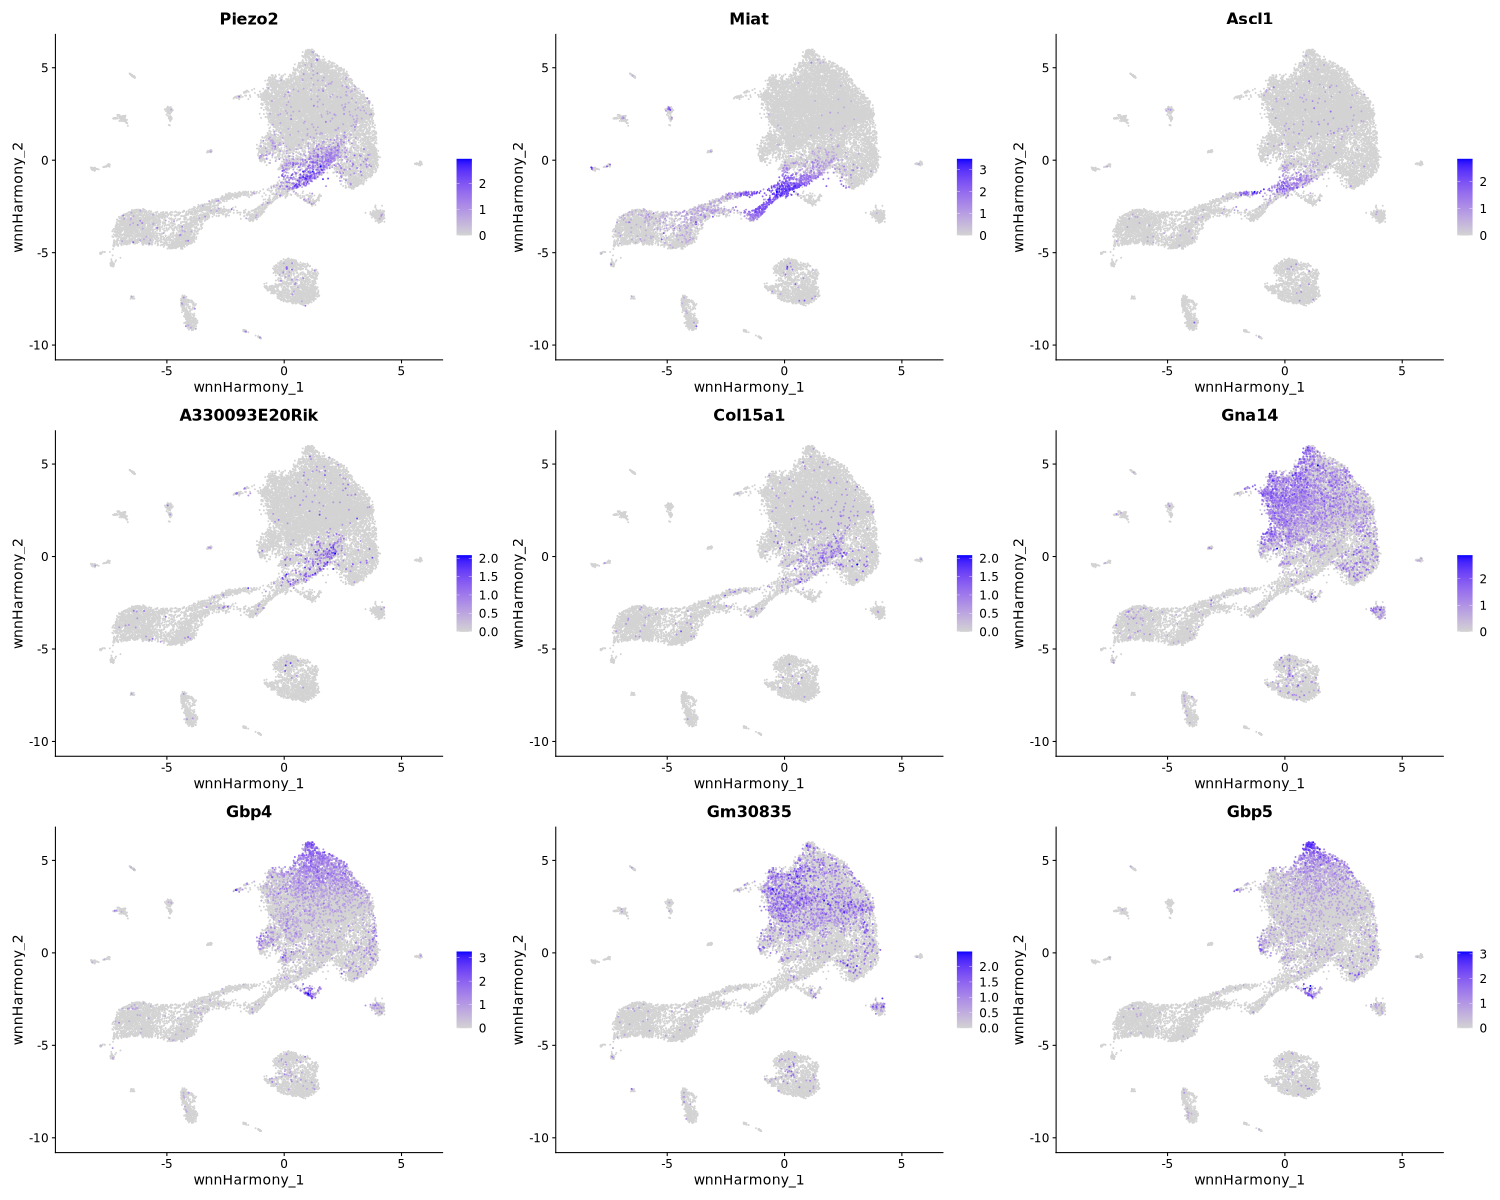
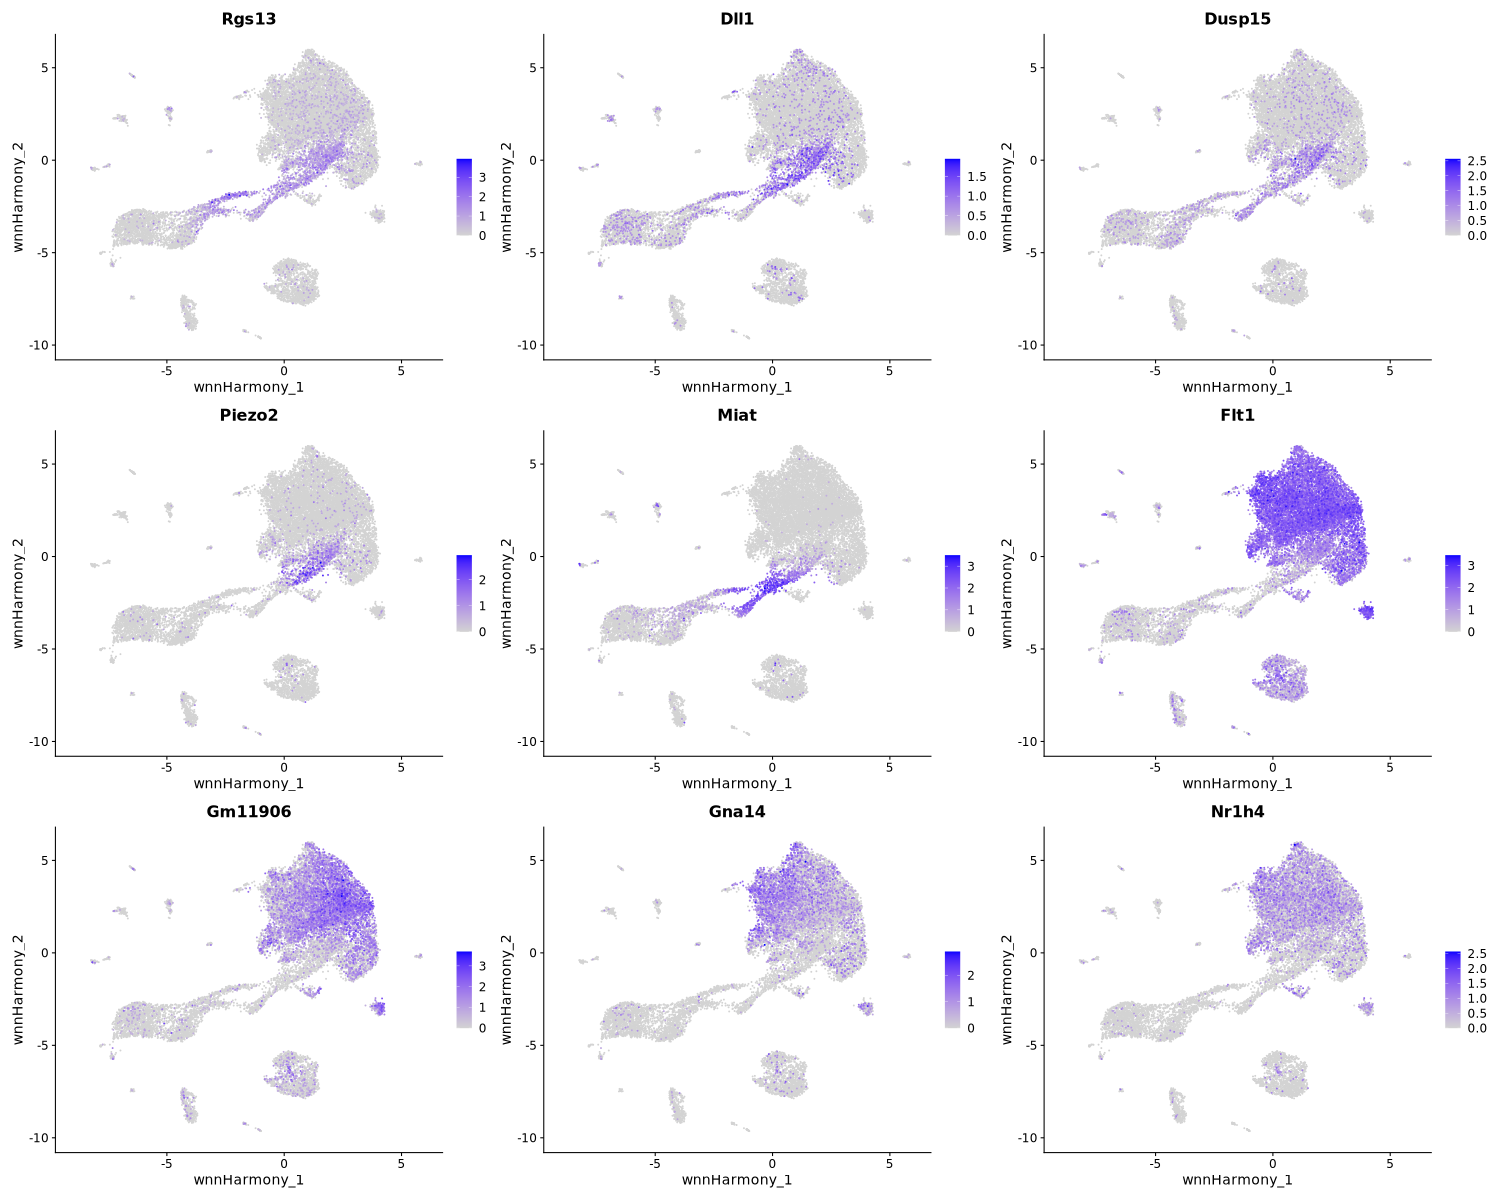
update motifEnrish -- plotTop and plots

diff --git a/README.md b/README.md
@@ -118,8 +118,8 @@ celltype_markers <- FindAllMarkers(
   myObject,
   assay = "SCT",
   only.pos = TRUE,
-  min.pct = 0.1,
-  logfc.threshold = 0.05,
+  min.pct = 0.25,      
+  logfc.threshold = 0.25,
   test.use = "wilcox",
   verbose = TRUE
 )
@@ -127,21 +127,21 @@ celltype_markers <- FindAllMarkers(
 
 # 📝📝📝📝 Download DGE 
 
-[Download DGE csv](https://docs.google.com/spreadsheets/d/1UjwHjkFK80CwosLBU8T7LFh20g9MEF8urONxpfuEfyU/edit?usp=sharing)
+[Download DGE csv](https://docs.google.com/spreadsheets/d/1ikiwg-Jhwwz26qm5zFf-BwnmkKIXQIhMWlMsMz89rSM/edit?usp=sharing)
 
 
 ##### Select Neurog2-S9A and top 10 markers ranked based on p_val_adj heatmap 
 
-![](figures/Neurog2-9SATopMarkers_heatmap.png?v=4) 
+![](figures/Top10_Markers_heatmap.png?v=1) 
 
 
 #### Top markers heatmap  
 
-![](figures/cNeurog2_celltype_markers_heatmap.png?v=6)
+![](figures/cNeurog2_celltype_markers_heatmap.png?v=8)
 
-![](figures/cNeurog2_celltype_top_markers_featureplot.png?v=6)
+![](figures/cNeurog2_celltype_top_markers_featureplot.png?v=8)
 
-![](figures/cNeurog2_celltype_markers_dotplot.png?v=6)
+![](figures/cNeurog2_celltype_markers_dotplot.png?v=8)
 
 ## Top Differential Peaks after annotation (nearby Genes)
 
